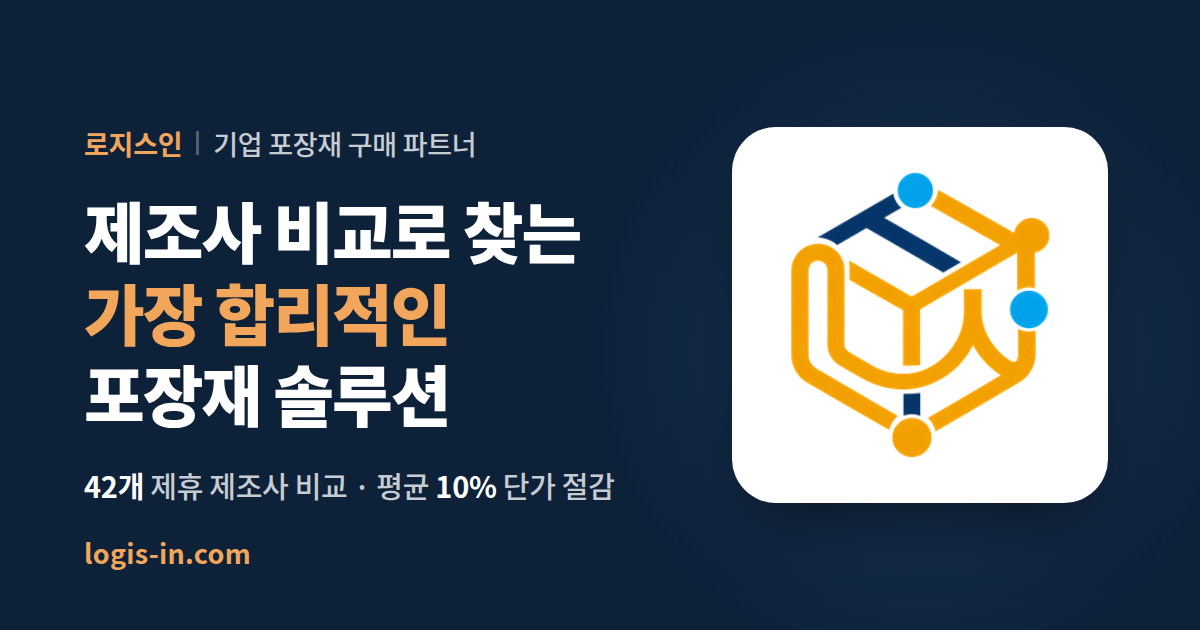
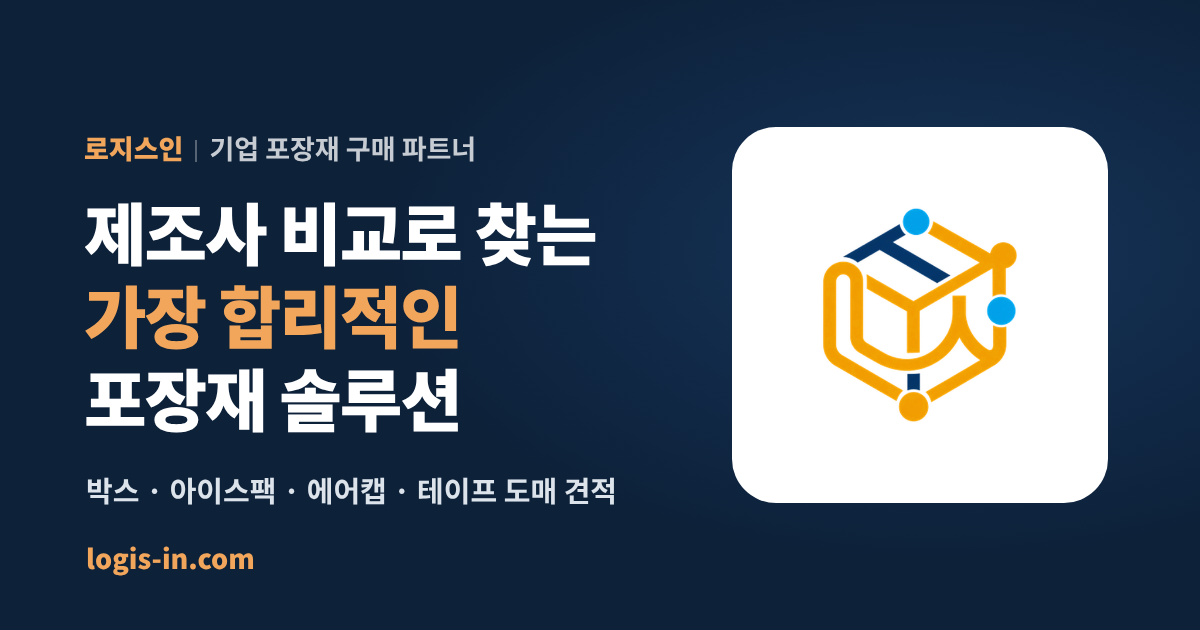
update title

diff --git a/index.html b/index.html
@@ -28,15 +28,15 @@
 <meta property="og:locale" content="ko_KR" />
 <meta property="og:url" content="https://logis-in.com/" />
 <meta property="og:title" content="로지스인 | 제조사 비교로 찾는 가장 합리적인 포장재 솔루션" />
-<meta property="og:description" content="42개 제휴 제조사 비교로 평균 10% 단가 절감. 박스 · 아이스팩 · 에어캡 · 테이프 도매 견적과 무료 포장비 진단." />
-<meta property="og:image" content="https://logis-in.com/og-image.png?v=2" />
+<meta property="og:description" content="여러 제조사 단가를 비교해 맞춤 견적을 드립니다. 박스 · 아이스팩 · 에어캡 · 테이프 도매 견적과 무료 포장비 진단." />
+<meta property="og:image" content="https://logis-in.com/og-image.png?v=3" />
 <meta property="og:image:width" content="1200" />
 <meta property="og:image:height" content="630" />
 <meta property="og:image:alt" content="로지스인 — 제조사 비교로 찾는 가장 합리적인 포장재 솔루션" />
 <meta name="twitter:card" content="summary_large_image" />
 <meta name="twitter:title" content="로지스인 | 제조사 비교로 찾는 가장 합리적인 포장재 솔루션" />
-<meta name="twitter:description" content="42개 제휴 제조사 비교로 평균 10% 단가 절감. 무료 포장비 진단." />
-<meta name="twitter:image" content="https://logis-in.com/og-image.png?v=2" />
+<meta name="twitter:description" content="제조사 단가를 비교해 맞춤 견적을 드립니다. 무료 포장비 진단." />
+<meta name="twitter:image" content="https://logis-in.com/og-image.png?v=3" />
 <link rel="preconnect" href="https://fonts.googleapis.com">
 <link href="https://fonts.googleapis.com/css2?family=IBM+Plex+Mono:wght@500;600&display=swap" rel="stylesheet">
 <link rel="stylesheet" as="style" crossorigin href="https://cdn.jsdelivr.net/gh/orioncactus/pretendard@v1.3.9/dist/web/static/pretendard.css" />
@@ -600,6 +600,11 @@
 
   /* 함께하는 기업 — compact */
   .clients-compact{padding:48px 0; background:var(--paper-soft);}
+  .press-line{margin:22px 0 0; font-size:0.9rem; display:flex; flex-wrap:wrap; gap:6px 12px; align-items:baseline;}
+  .press-label{font-family:'IBM Plex Mono',monospace; font-size:0.72rem; color:var(--kraft-dark); letter-spacing:0.04em; border:1px solid var(--kraft-dark); border-radius:4px; padding:2px 8px;}
+  .press-line a{color:var(--ink); font-weight:600; border-bottom:1px solid var(--line);}
+  .press-line a:hover{color:var(--kraft-dark); border-color:var(--kraft-dark);}
+  .press-line em{font-style:normal; font-weight:400; color:var(--steel); font-size:0.82rem; margin-left:6px;}
   .clients-compact .section-label{font-size:0.8rem; margin-bottom:6px;}
   .clients-heading{font-size:1rem; font-weight:600; color:var(--steel); margin:0; letter-spacing:-0.01em;}
   .clients-compact .client-grid{grid-template-columns:repeat(5,1fr); margin-top:20px;}
@@ -1026,7 +1031,7 @@
         <div class="diag-hero-copy">
           <p class="section-label">무료 포장비 진단 <span class="badge-free">FREE</span></p>
           <h2 class="diag-title">지금 쓰는 포장재,<br><span class="hl">적정 가격</span>일까요?</h2>
-          <p class="diag-sub">규격과 단가만 알려주세요.<br><strong>42개 제조사</strong>와 비교해 <strong>아낄 수 있는 금액</strong>을 계산해드립니다.</p>
+          <p class="diag-sub">규격과 단가만 알려주세요.<br><strong>여러 제조사</strong>와 비교해 <strong>아낄 수 있는 금액</strong>을 계산해드립니다.</p>
           <div class="diag-promise">
             <span><b>0원</b> 진단 비용</span>
             <span>거래 의무 <b>없음</b></span>
@@ -1107,9 +1112,9 @@
           <a class="pc-link" href="https://pf.kakao.com/_JxexixiX/chat" target="_blank" rel="noopener" data-track="steps_kakao">카카오톡으로 요청하기 →</a>
         </div>
         <div class="process-card">
-          <div class="pc-top"><span class="pc-num">2</span><span class="pc-chip">평균 10% 절감</span></div>
+          <div class="pc-top"><span class="pc-num">2</span><span class="pc-chip">단가 비교</span></div>
           <div class="pc-title">제조사 비교 · 단가 제안</div>
-          <div class="pc-desc">42개 제휴 제조사 조건을 비교해, 가장 합리적인 단가로 제안합니다.</div>
+          <div class="pc-desc">여러 제휴 제조사 조건을 비교해, 가장 합리적인 단가로 제안합니다.</div>
         </div>
         <div class="process-card">
           <div class="pc-top"><span class="pc-num">3</span><span class="pc-chip">조건 맞춤</span></div>
@@ -1191,7 +1196,8 @@
           <div class="client-tags"><span>아이스팩</span></div>
         </div>
       </div>
-    </div>
+          <p class="press-line"><span class="press-label">언론 보도</span><a href="https://www.joongangenews.com/news/articleView.html?idxno=556510" target="_blank" rel="noopener" data-track="press_joongang">박스부터 파렛트까지…물류 부자재 공급망 연결 나선 로지스인 <em>중앙이코노미뉴스 · 2026.10.20</em></a></p>
+</div>
   </section>
 
   <section class="faq" id="faq">

diff --git a/logisin-service.html b/logisin-service.html
@@ -561,7 +561,7 @@
 <meta property="og:title" content="포장재 소싱 서비스 | 로지스인 LogisIn" />
 <meta property="og:description" content="필요한 포장재를 알려주시면 여러 제조사의 단가를 비교해 합리적인 견적을 제안합니다. 상담부터 납품 확인까지 로지스인이 함께합니다." />
 <meta property="og:url" content="https://logis-in.com/logisin-service" />
-<meta property="og:image" content="https://logis-in.com/og-image.png?v=2" />
+<meta property="og:image" content="https://logis-in.com/og-image.png?v=3" />
 <meta name="twitter:card" content="summary_large_image" />
 </head>
 <body>

diff --git a/logisin-quote-request.html b/logisin-quote-request.html
@@ -456,7 +456,7 @@
 <meta property="og:title" content="맞춤 견적 요청 | 로지스인 LogisIn" />
 <meta property="og:description" content="필요한 포장재와 수량을 남겨주시면 제조사별 단가를 비교해 맞춤 견적을 회신드립니다. 연락처만 있어도 접수됩니다." />
 <meta property="og:url" content="https://logis-in.com/logisin-quote-request" />
-<meta property="og:image" content="https://logis-in.com/og-image.png?v=2" />
+<meta property="og:image" content="https://logis-in.com/og-image.png?v=3" />
 <meta name="twitter:card" content="summary_large_image" />
 </head>
 <body>
